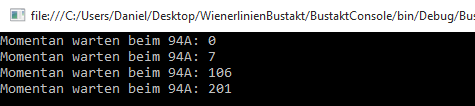
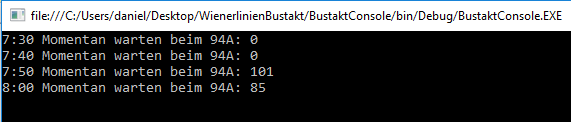
Final Version, all bugs fixed

Changed region(s): [[0.0, 0.0, 1.0, 1.0]]

diff --git a/BustaktConsole/Program.cs b/BustaktConsole/Program.cs
@@ -86,10 +86,24 @@ namespace BustaktConsole
                 {
                     anzahlbus = 0;
                 }
-                Console.WriteLine($"{i} warten, anzahlbus: {anzahlbus}, tmpcount {tmpcount}, schuelergeneriert: {wartende.Count}");
                 if (i % 10 == 0)
                 {
-                    Console.WriteLine($"Momentan warten beim 94A: {anzahlbus + tmpcount}");
+                    if (i == 30)
+                    {
+                        Console.WriteLine($"8:00 Momentan warten beim 94A: {(anzahlbus + tmpcount) - 90}");
+                    }
+                    else
+                    {
+                        if (i < 10)
+                        {
+
+                            Console.WriteLine($"7:3{i} Momentan warten beim 94A: {anzahlbus + tmpcount}");
+                        }
+                        else
+                        {
+                            Console.WriteLine($"7:{i+30} Momentan warten beim 94A: {anzahlbus + tmpcount}");
+                        }
+                    }
                 }
             }
             Console.ReadKey();
